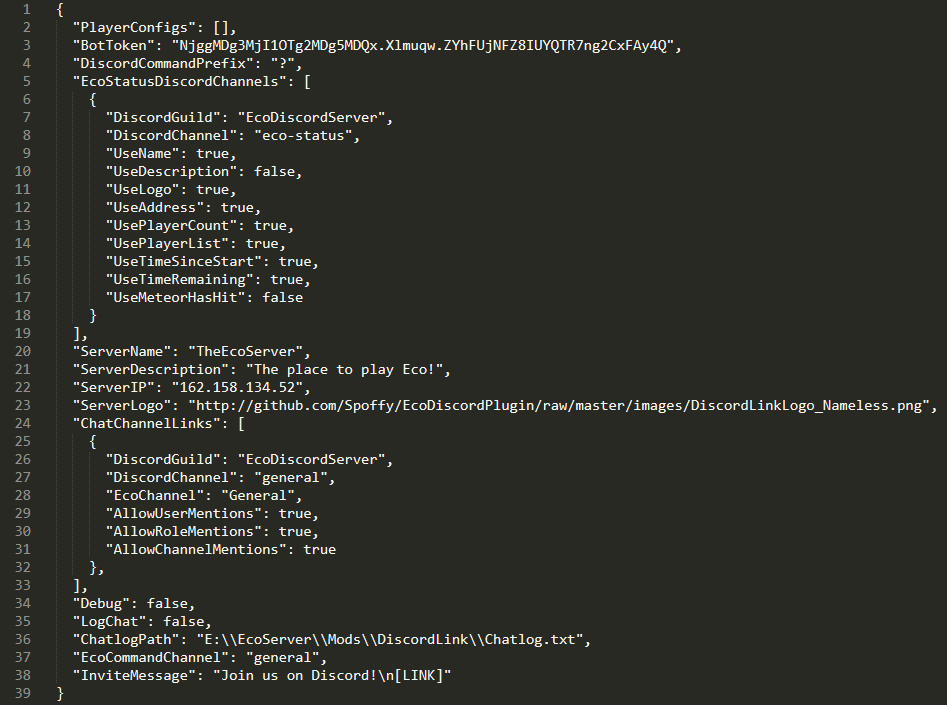
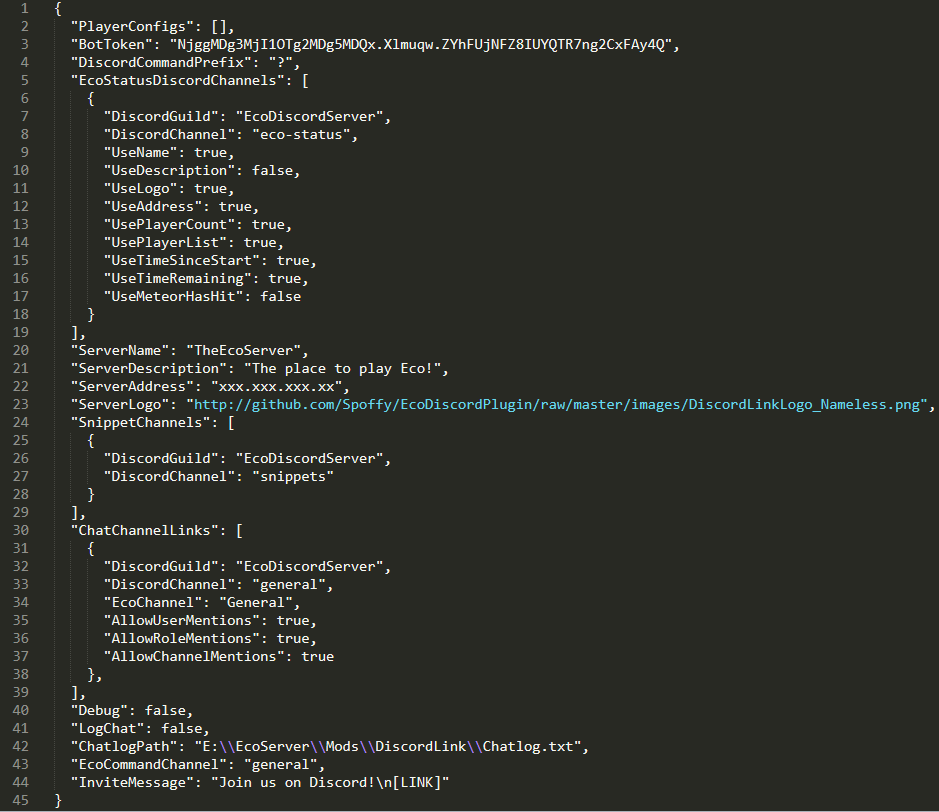
Added documentation for Discord Snippets

diff --git a/ConfigurationGUI.md b/ConfigurationGUI.md
@@ -6,6 +6,7 @@ From here, you can manipulate all configuration options available and most of th
 * [Bot Token](#bot-token)
 * [Linking Channels](#linking-channels)
 * [Eco Status](#eco-status)
+* [Discord Snippets](#discord-snippets)
 * [Chat Log](#chat-log)
 * [Command Settings](#command-settings)
 * [Server Details](#server-details)
@@ -46,6 +47,29 @@ See the [installation guide](Installation.md)
 **Note**: The Eco status message is continiously being rewritten by DiscordLink.
 
 ![Opening Collection Window](images/configuration/ecostatus/3.png)
+
+## Discord Snippets
+
+1. Locate the box called "Snippet Channels". Click on the three dots next to the box saying "(Collection)". This may be hidden until you mouse over it.
+
+![Opening Collection Window](images/configuration/snippets/1.png)
+
+2. In the new window that just appeared, click "Add" in the bottom left. This creates a new entry for an Eco status channel in Discord.
+
+![Opening Collection Window](images/configuration/snippets/2.png)
+
+3. Enter the parameters for the Discord Snippet Channel. _"DiscordChannel"_ should be the Discord channel you want the status message to be posted in. For example, "eco-status". _"DiscordGuild"_ is the name of the Discord Server, for example "Eco" for the official Eco Discord. Both _DiscordChannel_ and _DiscordGuild_ accept names or IDs. Once entered, hit "OK".
+
+![Opening Collection Window](images/configuration/snippets/3.png)
+
+4. In the Discord client, navigate to the channel you used in the previous step. In separate messages, input snippets on the following format:
+
+> [Snippet] [\<SnippetName\>]
+> \<Snippet text>
+
+**Note**: The range for how far in the message history Snippets can be found is limited.
+
+![Snippet Example](images/configuration/snippets/4.png)
 
 ## Chat Log
 To enable/disable logging of the chat, toggle the _"Log Chat"_ option in the _"ChatLog Configuration"_ section of the DiscordLink configuration options.

diff --git a/ConfigurationNoGUI.md b/ConfigurationNoGUI.md
@@ -7,6 +7,7 @@ The config file is named "DiscordLink.eco" is generated inside the _"Config"_ di
 * [Bot Token](#bot-token)
 * [Linking Channels](#linking-channels)
 * [Eco Status](#eco-status)
+* [Discord Snippets](#discord-snippets)
 * [Chat Log](#chat-log)
 * [Command Settings](#command-settings)
 * [Server Details](#server-details)
@@ -33,6 +34,18 @@ Once you have a bot token, copy the _"BotToken"_ field in the sample config and 
 4. **Optional**: Configure the usage flags according to your preferences.  
 
 **Note**: The Eco status message is continiously being rewritten by DiscordLink.
+
+## Discord Snippets
+
+1. Locate the box called "Snippet Channels". Click on the three dots next to the box saying "(Collection)". This may be hidden until you mouse over it.
+2. In the new window that just appeared, click "Add" in the bottom left. This creates a new entry for an Eco status channel in Discord.
+3. Enter the parameters for the Discord Snippet Channel. _"DiscordChannel"_ should be the Discord channel you want the status message to be posted in. For example, "eco-status". _"DiscordGuild"_ is the name of the Discord Server, for example "Eco" for the official Eco Discord. Both _DiscordChannel_ and _DiscordGuild_ accept names or IDs. Once entered, hit "OK".
+4. In the Discord client, navigate to the channel you used in the previous step. In separate messages, input snippets on the following format:
+
+> [Snippet] [\<SnippetName\>]
+> \<Snippet text>
+
+**Note**: The range for how far in the message history Snippets can be found is limited.
 
 ## Chat Log
 To enable/disable logging of the chat, set the _"Log Chat"_ option to true/false.  

diff --git a/SampleConfig.md b/SampleConfig.md
@@ -21,6 +21,12 @@
   "ServerDescription": "The place to play Eco!",  
   "ServerAddress": "xxx.xxx.xxx.xx",  
   "ServerLogo": "http://github.com/Spoffy/EcoDiscordPlugin/raw/master/images/DiscordLinkLogo_Nameless.png",  
+  "SnippetChannels": [  
+    {  
+      "DiscordGuild": "EcoDiscordServer",  
+      "DiscordChannel": "snippets"  
+    }  
+  ],  
   "ChatChannelLinks": [  
     {  
       "DiscordGuild": "EcoDiscordServer",  
